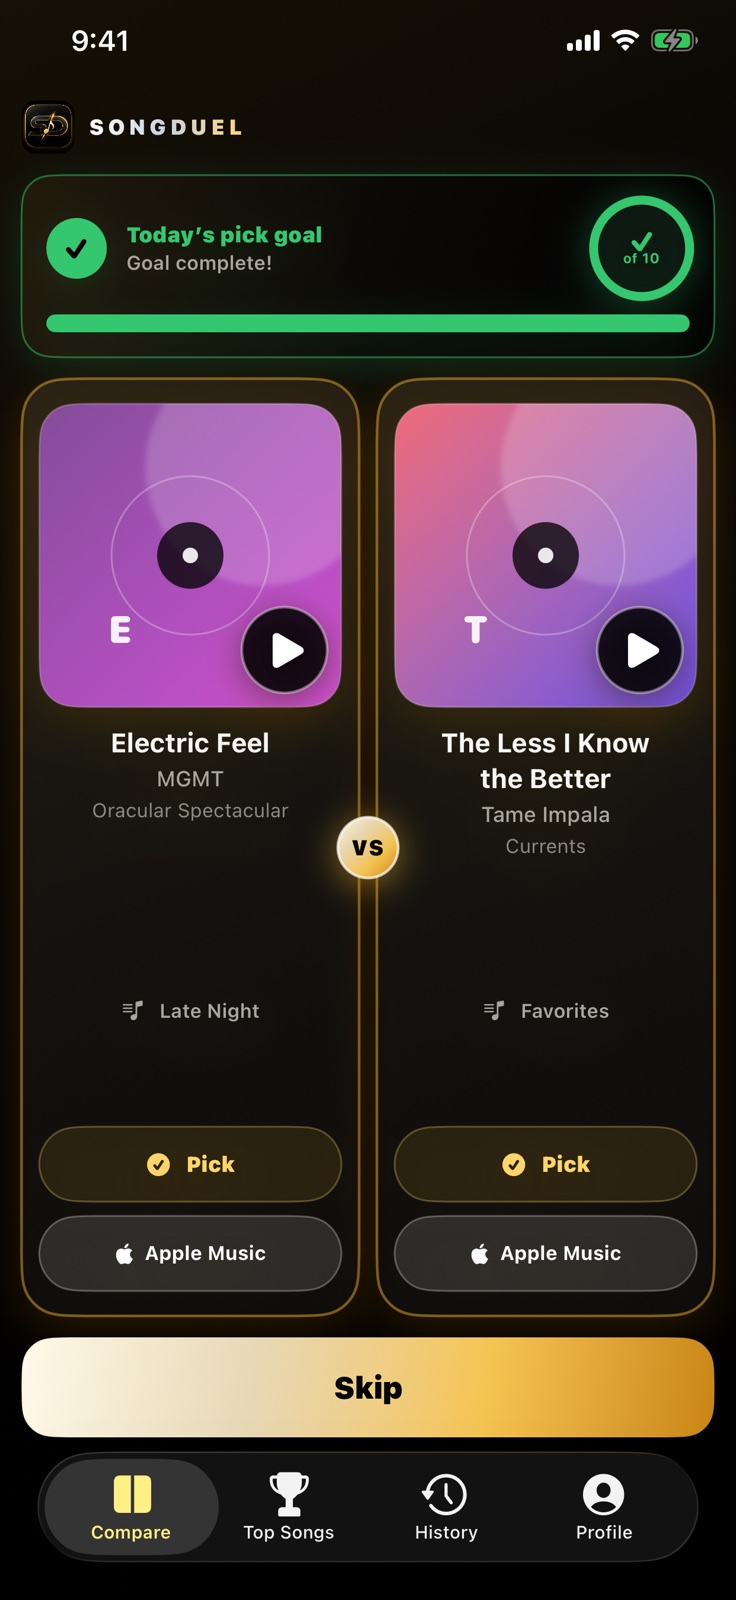
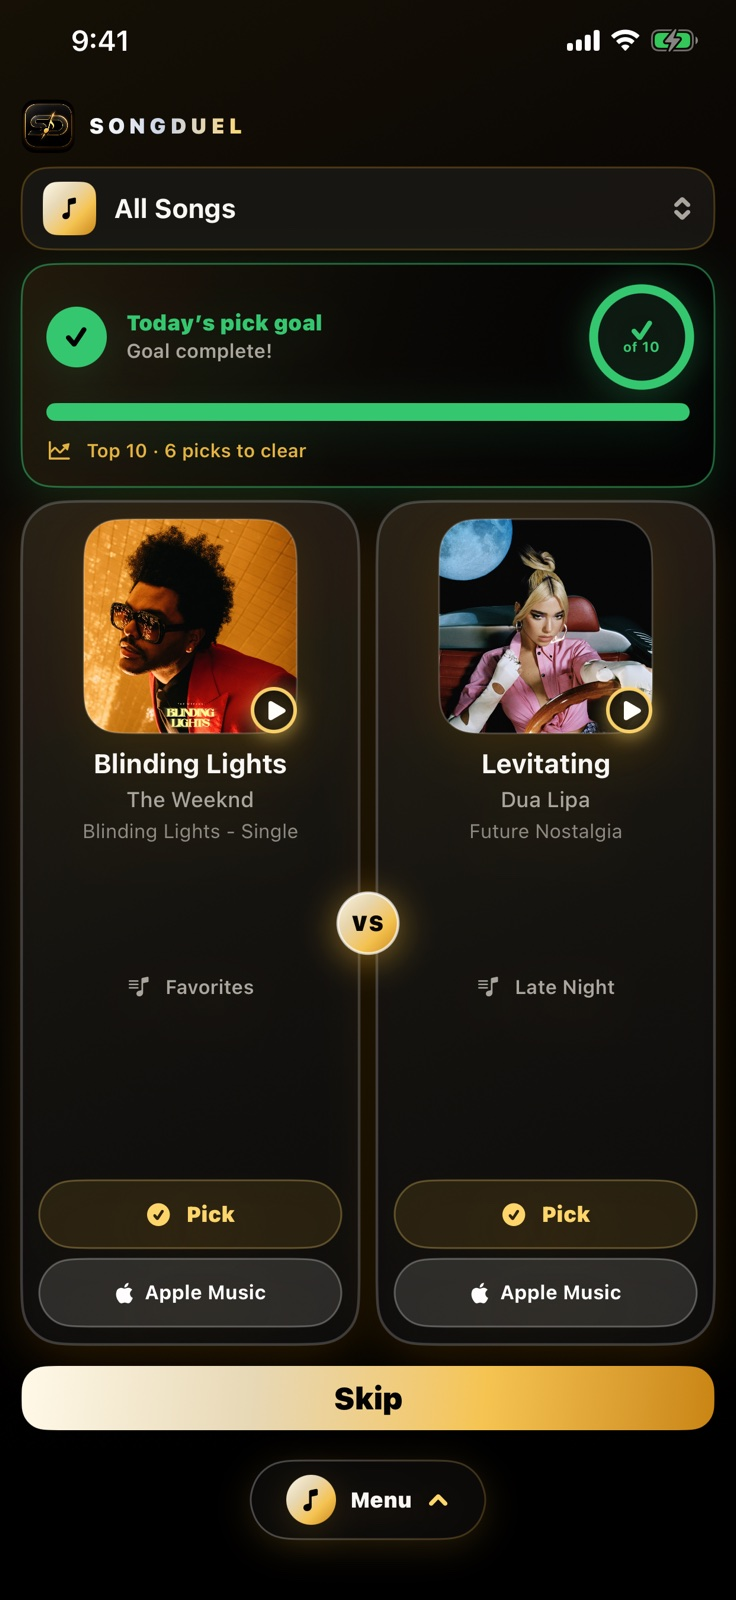
Sync website with SongDuel Build 18

diff --git a/index.html b/index.html
@@ -4,16 +4,16 @@
   <meta charset="utf-8">
   <meta name="viewport" content="width=device-width, initial-scale=1">
   <meta name="theme-color" content="#050403">
-  <meta name="description" content="Rank your Apple Music songs head to head, hear optional previews, track movement and history, and tune every comparison in SongDuel.">
+  <meta name="description" content="Rank all your Apple Music songs—or one playlist at a time—through head-to-head duels, then watch your Top 10, Top 25, Top 50, or Top 100 get clearer.">
   <meta property="og:title" content="SongDuel — Your music. Your ranking.">
-  <meta property="og:description" content="Duel your Apple Music songs, build an evolving Top 10, and personalize previews, pick timing, Daily Goal, and more.">
+  <meta property="og:description" content="Duel your Apple Music songs, rank All Songs or a favorite playlist, and follow your evolving ranking through SongDuel Insights.">
   <meta property="og:type" content="website">
   <meta property="og:url" content="https://songduel.app/">
   <meta property="og:image" content="https://songduel.app/assets/songduel-logo.png">
   <meta property="og:image:alt" content="SongDuel app icon">
   <meta name="twitter:card" content="summary_large_image">
   <meta name="twitter:title" content="SongDuel — Your music. Your ranking.">
-  <meta name="twitter:description" content="Duel your Apple Music songs and build a personal ranking that gets sharper with every pick.">
+  <meta name="twitter:description" content="Rank All Songs or one Apple Music playlist at a time. Every head-to-head pick makes your SongDuel ranking clearer.">
   <meta name="twitter:image" content="https://songduel.app/assets/songduel-logo.png">
   <title>SongDuel — Your music. Your ranking.</title>
   <link rel="icon" href="assets/favicon.png" type="image/png">
@@ -81,8 +81,8 @@
             <div class="phone-island"></div>
             <img src="assets/screen-history.jpg" alt="" width="736" height="1600">
           </div>
-          <div class="floating-chip chip-top"><span>↑ 3</span> Pink + White</div>
-          <div class="floating-chip chip-bottom"><strong>#1</strong> Midnight City</div>
+          <div class="floating-chip chip-top"><span>TOP 10</span> Getting clearer</div>
+          <div class="floating-chip chip-bottom"><strong>#1</strong> Levitating</div>
         </div>
       </div>
       <a class="scroll-cue" href="#promise" aria-label="Scroll to learn more"><span></span></a>
@@ -116,19 +116,19 @@
             <div class="step-number">01</div>
             <div class="step-icon icon-library" aria-hidden="true"><span></span><span></span><span></span></div>
             <h3>Connect your library</h3>
-            <p>Bring in songs from your Apple Music library and playlists. SongDuel builds one ranking across your connected collection.</p>
+            <p>Bring in your Apple Music library and playlists. Start with All Songs, or choose a playlist whenever you want a focused ranking.</p>
           </article>
           <article class="step-card featured" data-reveal>
             <div class="step-number">02</div>
             <div class="versus-mini" aria-hidden="true"><span>A</span><b>VS</b><span>B</span></div>
             <h3>Choose your favorite</h3>
-            <p>Choose a 3–10 second selection window. Tap again to cancel, choose the other song, or Skip and use the three-second Undo window.</p>
+            <p>Pick a song, then use the brief confirmation to cancel or switch. Skip a matchup and you still have a two-second Undo window.</p>
           </article>
           <article class="step-card" data-reveal>
             <div class="step-number">03</div>
             <div class="step-icon icon-podium" aria-hidden="true"><span></span><span></span><span></span></div>
             <h3>Watch your taste emerge</h3>
-            <p>Three quick picks unlock Top Songs and History. SongDuel shows your warm-up progress, then celebrates each confidence milestone.</p>
+            <p>Your ranking is available immediately. Explore Top Songs and Insights from the collapsible Menu, then watch clarity grow with every pick.</p>
           </article>
         </div>
       </div>
@@ -174,47 +174,47 @@
         <div class="feature-showcase">
           <article class="feature-panel copy-panel rankings-copy" data-reveal>
             <span class="feature-index">01 / LIVE RANKINGS</span>
-            <h3>Your Top 10 starts early.</h3>
-            <p>See your best estimate after the first few picks, then watch it gain confidence at clear milestones as you keep comparing.</p>
+            <h3>Your full ranking starts now.</h3>
+            <p>See your starting estimate immediately, then move between Top 10, Top 25, Top 50, Top 100, or every song in a smaller playlist.</p>
             <ul>
-              <li>Top 3 confidence at 250 picks</li>
-              <li>Top 6 at 500 and Top 10 at 1,000</li>
+              <li>Rank All Songs or an individual Apple Music playlist</li>
+              <li>Clarity milestones at 30, 75, 150, and 300 picks</li>
               <li>Search, previews, movement, and pick totals</li>
             </ul>
           </article>
           <div class="feature-panel image-panel rankings-image" data-reveal>
-            <div class="phone feature-phone"><div class="phone-island" aria-hidden="true"></div><img src="assets/screen-rankings.jpg" alt="SongDuel Top Songs screen showing an evolving Top 10 and confidence progress" loading="lazy" width="736" height="1600"></div>
+            <div class="phone feature-phone"><div class="phone-island" aria-hidden="true"></div><img src="assets/screen-rankings.jpg" alt="SongDuel Top Songs screen showing the All Songs scope, Top 10 ranking, confidence, and clarity progress" loading="lazy" width="736" height="1600"></div>
           </div>
           <div class="feature-panel image-panel history-panel" data-reveal>
-            <div class="phone feature-phone"><div class="phone-island" aria-hidden="true"></div><img src="assets/screen-history.jpg" alt="SongDuel History screen showing ranking signals and monthly movement" loading="lazy" width="736" height="1600"></div>
+            <div class="phone feature-phone"><div class="phone-island" aria-hidden="true"></div><img src="assets/screen-history.jpg" alt="SongDuel Insights screen showing an All Songs ranking scope and monthly movement signals" loading="lazy" width="736" height="1600"></div>
           </div>
           <article class="feature-panel copy-panel history-copy" data-reveal>
-            <span class="feature-index">02 / LISTENING ERAS</span>
+            <span class="feature-index">02 / SONGDUEL INSIGHTS</span>
             <h3>Your taste has a story.</h3>
             <p>See the songs and signals shaping your taste, then move through daily, monthly, and yearly snapshots of your ranking.</p>
             <ul>
-              <li>Most compared and newest additions</li>
+              <li>Most compared and ranking confidence</li>
               <li>Monthly and yearly movers</li>
-              <li>Confidence, stability, and historical number ones</li>
+              <li>Daily, monthly, and yearly ranking snapshots</li>
             </ul>
           </article>
           <article class="feature-panel copy-panel profile-copy" data-reveal>
             <span class="feature-index">03 / YOUR EXPERIENCE</span>
             <h3>Every duel, your way.</h3>
-            <p>Profile brings the sound, timing, routine, learning, music-service, and account controls together in one polished home.</p>
+            <p>Profile keeps preview, routine, learning, music-service, and account controls together in one polished home.</p>
             <ul>
-              <li>Optional previews: right song, then left, 5–30 seconds each</li>
-              <li>Selection time from 3–10 seconds; Skip has a three-second Undo</li>
+              <li>Optional previews: left song, then right, 5–30 seconds each</li>
+              <li>Preview length becomes available when automatic preview is on</li>
               <li>Daily Goal from 5–100 in steps of five, plus an optional reminder</li>
-              <li>Intro music, Apple Music sync, local photo, and replayable tutorial</li>
+              <li>Apple Music sync, protected local photo, and replayable tutorial</li>
             </ul>
           </article>
           <div class="feature-panel image-panel profile-panel" data-reveal>
-            <div class="phone feature-phone"><div class="phone-island" aria-hidden="true"></div><img src="assets/screen-profile.jpg" alt="SongDuel Profile screen showing intro music, automatic preview, preview length, selection time, and Daily Goal settings" loading="lazy" width="736" height="1600"></div>
+            <div class="phone feature-phone"><div class="phone-island" aria-hidden="true"></div><img src="assets/screen-profile.jpg" alt="SongDuel Profile settings showing automatic song preview, preview length, daily reminder, and Daily Goal controls" loading="lazy" width="736" height="1600"></div>
           </div>
         </div>
         <div class="feature-strip" data-reveal>
-          <div><span class="strip-icon">♫</span><strong>Sync while you compare</strong><small>Live import progress keeps the music flowing</small></div>
+          <div><span class="strip-icon">♫</span><strong>Choose your ranking</strong><small>All Songs or one Apple Music playlist</small></div>
           <div><span class="strip-icon">◎</span><strong>Listening, kept separate</strong><small>Most Listened never pretends to be your ranking</small></div>
           <div><span class="strip-icon">◫</span><strong>Made to share</strong><small>Export polished Top 3 cards</small></div>
         </div>
@@ -253,7 +253,7 @@
         <div class="faq-list" data-reveal>
           <details>
             <summary>How does SongDuel rank my music?<span></span></summary>
-            <p>Each head-to-head pick updates both songs with an Elo-style rating. A guided three-pick warm-up unlocks Top Songs and History, then confidence milestones arrive for the Top 3 at 250 picks, Top 6 at 500, and Top 10 at 1,000.</p>
+            <p>Supported Apple Music listening, recency, favorite, and library signals create a private starting estimate. Every head-to-head choice adds stronger direct evidence. Rankings are available immediately, with clarity milestones for Top 10 at 30 picks, Top 25 at 75, Top 50 at 150, and Top 100 at 300.</p>
           </details>
           <details>
             <summary>Do I need an Apple Music subscription?<span></span></summary>
@@ -261,11 +261,15 @@
           </details>
           <details>
             <summary>Are Most Listened songs part of my ranking?<span></span></summary>
-            <p>No. Apple Music listening activity is shown separately and without rank numbers. Only your head-to-head SongDuel picks determine your evolving Top 10.</p>
+            <p>The Most Listened list stays separate and never pretends to be your SongDuel ranking. Where Apple Music supplies listening signals, they help seed your starting estimate; your direct head-to-head choices increasingly shape the ranking.</p>
           </details>
           <details>
-            <summary>Can I control previews and pick timing?<span></span></summary>
-            <p>Yes. Automatic song preview is optional and off by default. In Profile, choose 5, 10, 15, 20, 25, or 30 seconds per song; SongDuel previews the right song, then the left. You can also set the selection window from 3 to 10 seconds. Skip always includes a three-second Undo window.</p>
+            <summary>Can I rank one playlist at a time?<span></span></summary>
+            <p>Yes. Use the ranking selector on Compare, Top Songs, or Insights to choose All Songs or an Apple Music playlist. Matchups, ranking progress, and history follow the selected scope.</p>
+          </details>
+          <details>
+            <summary>How do automatic previews and Undo work?<span></span></summary>
+            <p>Automatic song preview is optional and off by default. Enable it in Profile, then choose 5, 10, 15, 20, 25, or 30 seconds per song. SongDuel previews the left song and then the right when you open Compare. Skip includes a two-second Undo window.</p>
           </details>
           <details>
             <summary>Can I delete my data?<span></span></summary>

diff --git a/support.html b/support.html
@@ -26,8 +26,8 @@
         <article class="legal-copy">
           <section id="basics"><h2>Start with the basics</h2><ul><li>Confirm your iPhone has a working internet connection.</li><li>Update SongDuel and iOS to the latest available versions.</li><li>Force-quit SongDuel, reopen it, and leave it active briefly so sync can finish.</li><li>If a specific song has no preview, use its Apple Music button. Apple Music does not supply a preview for every track.</li></ul></section>
           <section id="apple-music"><h2>Apple Music connection</h2><ul><li>Open iOS Settings and confirm you are signed in under Media &amp; Purchases.</li><li>In the Music settings, turn on Sync Library.</li><li>Confirm SongDuel is allowed to access Media &amp; Apple Music.</li><li>Open Profile in SongDuel, disconnect Apple Music, and reconnect it if authorization has expired.</li><li>Full-song playback and some library features require an active Apple Music subscription.</li></ul><p>Disconnecting Apple Music does not delete or sign out your SongDuel account.</p></section>
-          <section id="compare"><h2>Compare controls</h2><ul><li>Automatic song preview is optional and off by default. Enable it in Profile under Compare preferences.</li><li>Automatic preview plays the right song first, then the left. Choose 5, 10, 15, 20, 25, or 30 seconds per song.</li><li>Manual playback, leaving Compare, switching tabs, or putting the app in the background stops the automatic preview session.</li><li>Selection time controls how long you have to cancel or change a pick. Choose any whole-second value from 3 to 10 seconds; the default is 3 seconds.</li><li>Skip starts a fixed three-second grace period. Tap Undo—or choose either song—before it expires to keep the matchup.</li><li>Intro music controls whether the SongDuel opening logo plays its sound at launch.</li></ul></section>
-          <section id="sync"><h2>Library, ranking, and sync</h2><p>SongDuel saves picks offline first, so a comparison should not wait for the network. Cloud backup and restore occur separately after you sign in.</p><ul><li>SongDuel needs at least two eligible songs for a comparison. Top Songs and History show locked tabs until three completed picks; tap either tab to see your warm-up progress and return to Compare.</li><li>Your evolving Top 10 is an early estimate. Confidence milestones arrive for the Top 3 at 250 picks, Top 6 at 500, and Top 10 at 1,000, with an in-app celebration at each milestone.</li><li>Apple Music’s Most Listened Songs are displayed separately and do not determine your SongDuel ranking.</li><li>You can keep comparing while a large Apple Music library imports; SongDuel displays live progress as it runs.</li><li>In Profile, Automatic preference sync can keep supported Apple Music preference and listening signals current, or you can use Sync music preferences now.</li><li>If your daily progress is unexpected, check Daily Goal in Profile. It can be set from 5 to 100 comparisons in steps of five, with a default of 10.</li></ul></section>
+          <section id="compare"><h2>Compare controls</h2><ul><li>Use the ranking selector near the top of Compare to choose All Songs or an individual Apple Music playlist.</li><li>Automatic song preview is optional and off by default. Enable it in Profile under Compare preferences.</li><li>When enabled, the Preview length control offers 5, 10, 15, 20, 25, or 30 seconds per song. SongDuel plays the left song first and then the right.</li><li>Manual playback, leaving Compare, switching views, or putting the app in the background stops the automatic preview session.</li><li>After choosing a song, tap it again to cancel or tap the other song to switch before the pick is confirmed.</li><li>Skip starts a fixed two-second grace period. Tap Undo—or choose either song—before it expires to keep the matchup.</li></ul></section>
+          <section id="sync"><h2>Library, ranking, and sync</h2><p>SongDuel saves picks offline first, so a comparison should not wait for the network. Cloud backup and restore occur separately after you sign in.</p><ul><li>SongDuel needs at least two eligible songs in the selected ranking scope for a comparison.</li><li>Top Songs and Insights are available immediately from the collapsible Menu. Ranking history fills in as you complete comparisons.</li><li>Use the scope selector on Compare, Top Songs, or Insights to move between All Songs and individual Apple Music playlists.</li><li>Top Songs can show Top 10, Top 25, Top 50, Top 100, or every song in a smaller playlist. Standard clarity milestones are 30, 75, 150, and 300 completed picks; a playlist’s full-ranking milestone scales to three picks per song.</li><li>Apple Music’s Most Listened Songs remain a separate listening view. Supported listening and preference signals can seed the starting estimate, while direct SongDuel choices add increasingly strong evidence.</li><li>You can keep comparing while a large Apple Music library imports; SongDuel displays live progress as it runs.</li><li>In Profile, Automatic preference sync can keep supported Apple Music preference and listening signals current, or you can use Sync music preferences now.</li><li>If your daily progress is unexpected, check Daily Goal in Profile. It can be set from 5 to 100 comparisons in steps of five, with a default of 10.</li></ul></section>
           <section id="account"><h2>Account and data controls</h2><p>Open Profile in SongDuel to add or remove an on-device profile photo, replay the tutorial, disconnect Apple Music while keeping or deleting your personal ranking, clear app data without signing out, log out, or permanently delete your SongDuel account. Disconnecting never changes your Apple Music library. Permanent deletion requires confirmation with the same Apple Account so SongDuel can revoke its Sign in with Apple grant before removing associated cloud data, subject to limited security, legal, and backup retention described in the <a href="privacy.html">Privacy Policy</a>.</p></section>
           <section id="contact"><h2>Contact support</h2><p>Email <a href="mailto:ssmk.consulting@icloud.com">ssmk.consulting@icloud.com</a> and include:</p><ul><li>a short description of what happened and what you expected;</li><li>the SongDuel app version;</li><li>your iPhone model and iOS version; and</li><li>steps that reliably reproduce the problem, if known.</li></ul><p class="legal-note"><strong>Do not send secrets.</strong> Never include passwords, Apple credentials, authentication tokens, private relay addresses, or personal music history.</p><p>Support requests are reviewed as soon as practical. SongDuel is operated by SSMK Consulting LLC in South Carolina, United States.</p></section>
         </article>

diff --git a/privacy.html b/privacy.html
@@ -23,7 +23,7 @@
       <header class="subpage-hero">
         <span class="kicker">Legal</span>
         <h1>Privacy, in plain language.</h1>
-        <p>Effective August 9, 2026. This policy explains how SongDuel handles information in the iOS app and on this website.</p>
+        <p>Effective August 17, 2026. This policy explains how SongDuel handles information in the iOS app and on this website.</p>
       </header>
       <div class="legal-layout">
         <aside class="legal-aside" aria-label="On this page">
@@ -33,18 +33,18 @@
         <article class="legal-copy">
           <section id="scope">
             <h2>Scope</h2>
-            <p>SongDuel is operated by SSMK Consulting LLC (“SongDuel,” “we,” or “us”). SongDuel helps you import songs from Apple Music, compare them, build personal rankings, review ranking history, and create a Top 10 playlist you request.</p>
+            <p>SongDuel is operated by SSMK Consulting LLC (“SongDuel,” “we,” or “us”). SongDuel helps you import songs from Apple Music, compare them, build personal All Songs or playlist rankings, review ranking insights and history, and create a Top 10 playlist you request.</p>
             <p class="legal-note">SongDuel does not sell personal information and does not use your information for cross-context behavioral advertising.</p>
           </section>
           <section id="information">
             <h2>Information SongDuel handles</h2>
             <h3>Account information</h3>
             <p>When you use Sign in with Apple, we receive an account identifier and, depending on your Apple choices, a name and email address or private relay address. Authentication records and sessions are managed with Supabase.</p>
-            <p>If you choose a profile photo, SongDuel stores the resized image in the app’s local storage on your device. The photo is not included in your SongDuel cloud backup and is removed when you remove it, clear app data, or delete your account from that device.</p>
+            <p>If you choose a profile photo, SongDuel stores the resized image in the app’s protected local storage on your device. It remains protected while the device is locked, is not included in your SongDuel cloud backup, and is removed when you remove it, clear app data, or delete your account from that device.</p>
             <h3>Music and ranking data</h3>
             <p>SongDuel processes Apple Music metadata from the library and playlists you connect, including songs, artists, albums, playlists, artwork, provider identifiers, favorites when available, recent-listening, Replay, recommendation, and availability details. It stores this music metadata and the preference results associated with your SongDuel account so it can sync and restore your experience.</p>
             <h3>Product interaction</h3>
-            <p>SongDuel stores your comparison choices, ranking changes, skips, scores, ranking snapshots, manually selected favorites, sync status, and playlist publishing state to operate and personalize your rankings. Experience preferences such as intro music, automatic preview, preview length, selection time, Daily Goal, and reminder settings are stored on your device.</p>
+            <p>SongDuel stores your comparison choices and ranking scope, ranking changes, skips, scores, ranking snapshots, manually selected favorites, sync status, and playlist publishing state to operate and personalize your rankings. Experience preferences such as automatic preview, preview length, Daily Goal, and reminder settings are stored on your device.</p>
             <h3>Connected-service data</h3>
             <p>Apple Music authorization and user tokens are managed by Apple and MusicKit. SongDuel requests Apple Music access separately from account sign-in. Revoking music access does not delete or sign out your SongDuel account.</p>
             <h3>Website and technical data</h3>

diff --git a/script.js b/script.js
@@ -64,8 +64,8 @@ const advanceRound = () => {
   if (roundLabel) roundLabel.textContent = String(round).padStart(2, '0');
 };
 
-const beginCountdown = (onTick) => {
-  let seconds = 3;
+const beginCountdown = (duration, onTick) => {
+  let seconds = duration;
   onTick(seconds);
   countdownTimer = window.setInterval(() => {
     seconds -= 1;
@@ -84,7 +84,7 @@ choiceButtons.forEach((button) => {
     resetDemoActions();
     pendingChoice = button;
     button.classList.add('selected');
-    beginCountdown((seconds) => {
+    beginCountdown(3, (seconds) => {
       if (result) result.textContent = `${button.dataset.choice} selected — ${seconds} second${seconds === 1 ? '' : 's'} to cancel or switch.`;
     });
     actionTimer = window.setTimeout(() => {
@@ -105,7 +105,7 @@ skipButton?.addEventListener('click', () => {
 
   resetDemoActions();
   skipButton.classList.add('pending');
-  beginCountdown((seconds) => {
+  beginCountdown(2, (seconds) => {
     skipButton.textContent = `Undo skip · ${seconds}`;
     if (result) result.textContent = `Skip pending — ${seconds} second${seconds === 1 ? '' : 's'} to undo or choose a song.`;
   });
@@ -113,7 +113,7 @@ skipButton?.addEventListener('click', () => {
     resetDemoActions();
     advanceRound();
     if (result) result.textContent = 'Matchup skipped. No winner was recorded.';
-  }, 3000);
+  }, 2000);
 });
 
 document.querySelectorAll('[data-year]').forEach((node) => {
